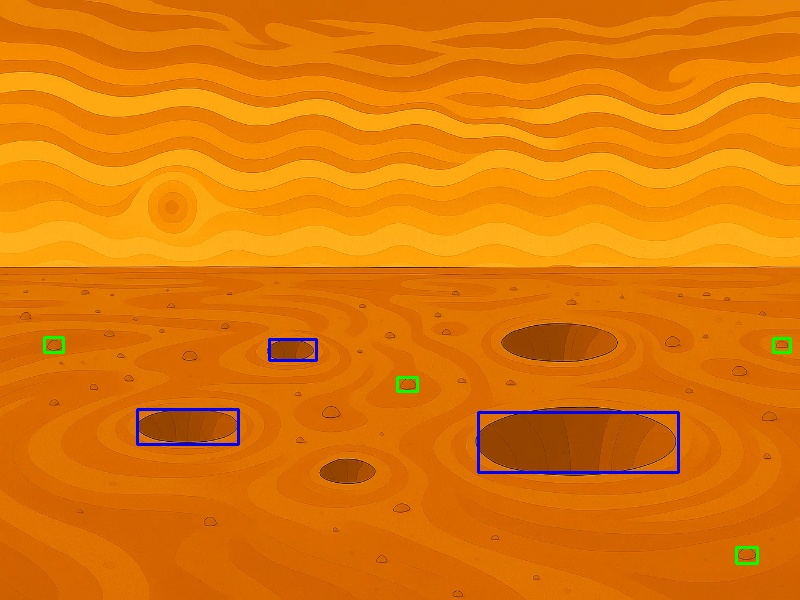
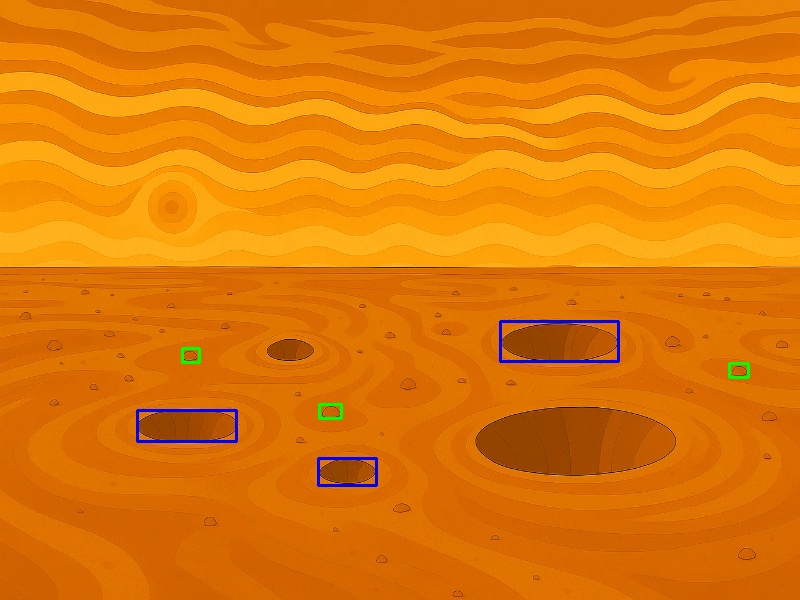
leveling up pipeline set and rover set

diff --git a/Explore_Mars_CV_Game/development_modules/bgImage_Processing.py b/Explore_Mars_CV_Game/development_modules/bgImage_Processing.py
@@ -35,8 +35,8 @@ def draw_bounding_boxes_and_save(image, stone_coords, pithole_coords, output_pat
 #     (468, 279, 717, 333),  # Pithole 1: top-left (500, 550), bottom-right (600, 650)
 #     (437, 398, 720, 463)
 # ]
-stone_coords = [(397, 377, 417, 391), (773, 338, 790, 352), (736, 547, 757, 563), (44, 337, 63, 352)]
-pithole_coords = [(478, 412, 678, 472), (269, 339, 316, 360), (137, 409, 238, 444)]
+stone_coords = [(319, 404, 341, 418), (182, 348, 199, 362), (729, 363, 748, 377)]
+pithole_coords = [(137, 410, 236, 441), (318, 458, 376, 485), (500, 321, 618, 361)]
 # Load the image
 image = cv2.imread('background2.png')
 image = cv2.resize(image, (800, 600))
